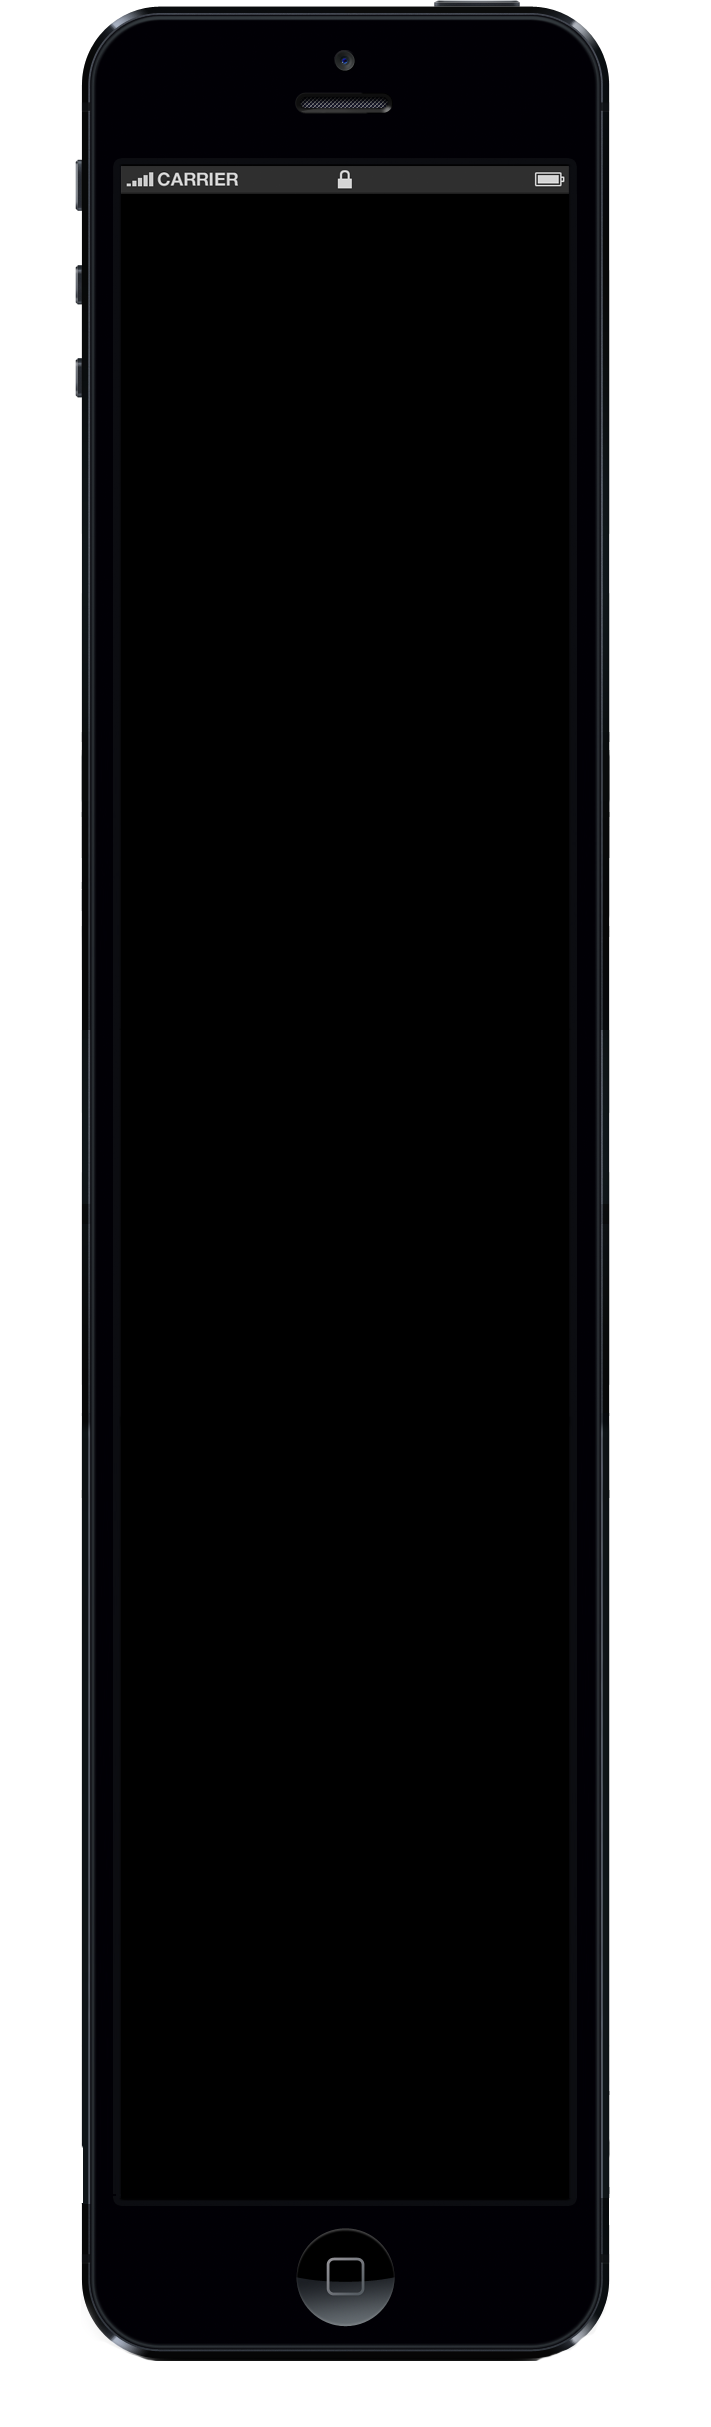
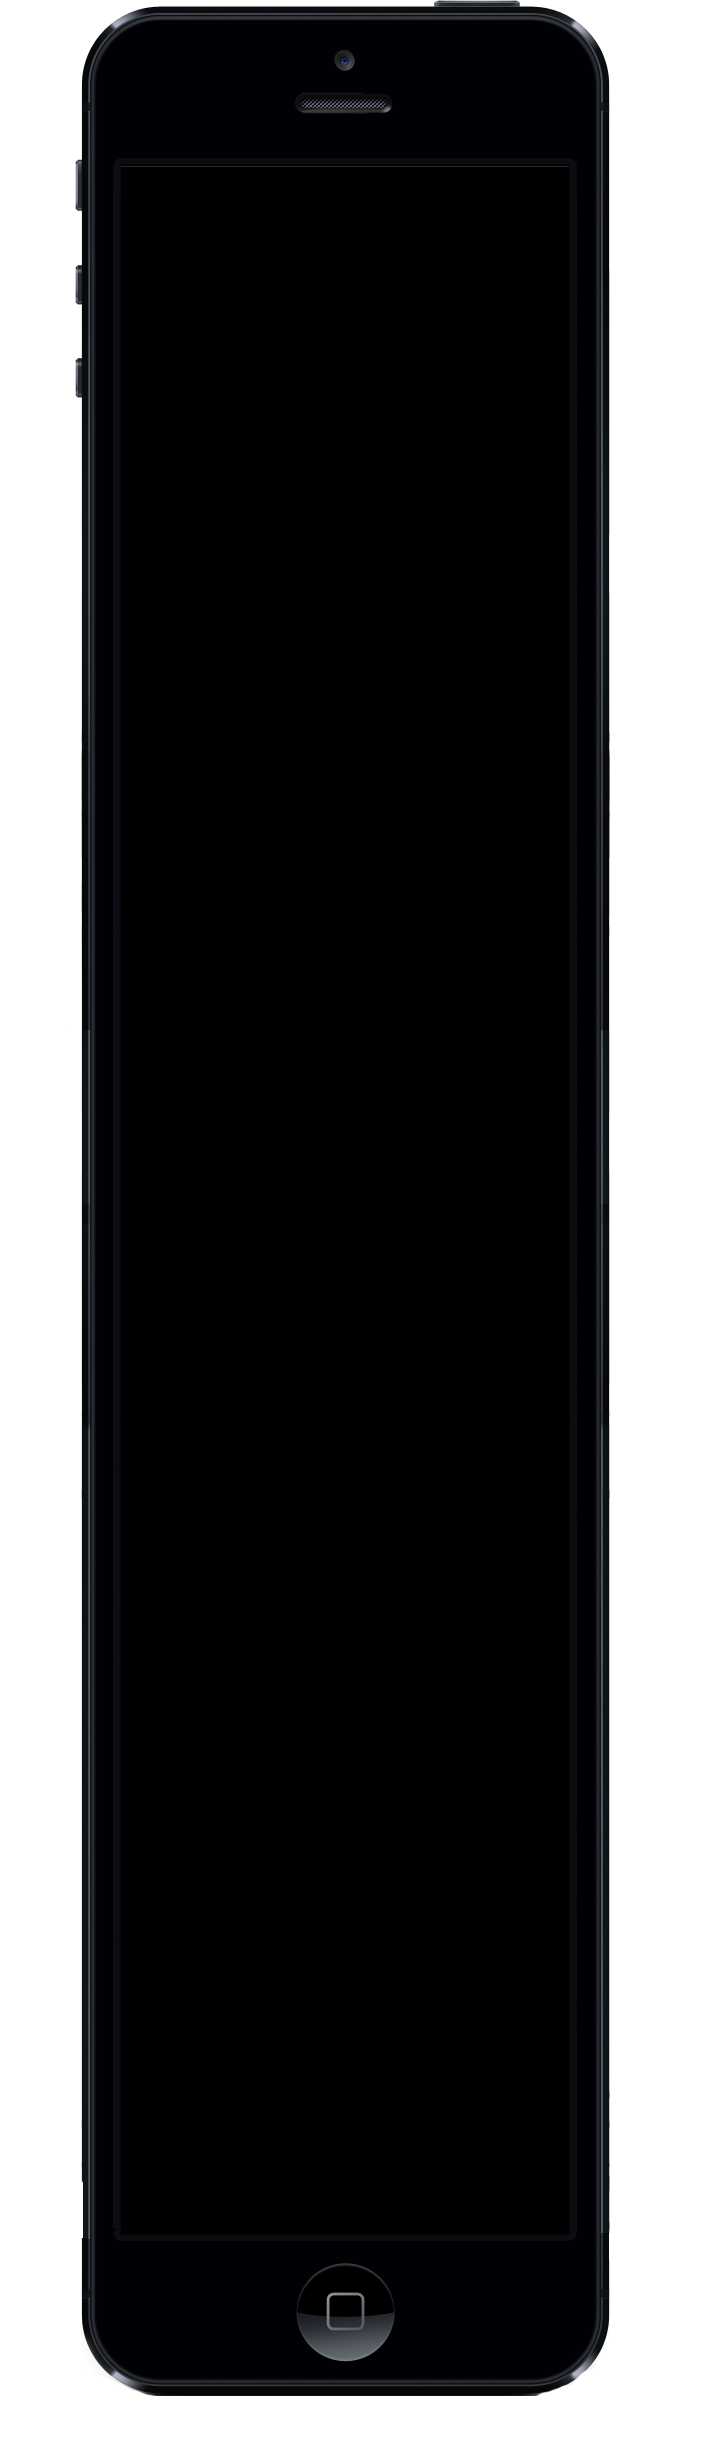
bugfixing

Changed region(s): [[0.1238, 0.9271, 0.8354, 0.9889], [0.1547, 0.0309, 0.8045, 0.0927], [0.8354, 0.9271, 0.8664, 0.958]]

diff --git a/projects/braunegger_hackel/assets/css/style.css b/projects/braunegger_hackel/assets/css/style.css
@@ -1,19 +1,19 @@
 @import url('http://fonts.googleapis.com/css?family=Open+Sans:400,700');
-*{box-sizing:border-box;}
+*{box-sizing:border-box;-webkit-box-sizing:border-box;-moz-box-sizing:border-box;}
 body{margin:0;padding:0;background:url('../img/bg.jpg') 60% 20% no-repeat,url('../img/mooning.jpg') repeat;font:normal normal 400 15px/150% 'Open Sans',Arial,sans-serif;}
 .group:after{visibility:hidden;display:block;content:"";clear:both;height:0;}
 .wrapper{width:700px;margin:0 auto;}
 .placeholder{width:400px;position:fixed;top:-250px;}.placeholder img{position:relative;left:42%;width:100%;}
-.phone{width:700px;height:2400px;background:url('../img/smartphone.png') no-repeat;border-radius:10px;margin:700px auto 0;}
+.phone{width:700px;height:2400px;background:url('../img/smartphone.png') no-repeat;border-radius:10px;margin:700px auto 70px;}
 .screen{display:none;width:448px;margin:40px auto 0;background:#fff;position:relative;top:166px;left:-2px;z-index:1;}
 .screen-overlay{background:#111;width:448px;height:1345px;margin:40px auto 0;position:relative;top:166px;left:-2px;z-index:2;}
-header,section{margin:0;box-shadow:0px 0px 5px 1px #000;}
-header{height:140px;padding:12.5% 10px 25px;background:url(../img/pattern_yellow.png) repeat;}header h1{margin:0;padding:0;font-size:30px;line-height:120%;font-weight:700;text-align:center;color:#fff;text-transform:uppercase;text-shadow:0px 2px 2px #000;}
-.phone section{min-height:600px;padding:15px 0;}.phone section h2{font-size:25px;line-height:120%;font-weight:700;text-align:center;color:#fff;text-transform:uppercase;text-shadow:0px 1px 3px #000;}.phone section h2:before{content:'»';margin-right:5px;}
+header,section{margin:0;box-shadow:0px 0px 5px 1px #000;position:relative;}
+header{height:140px;padding:12.5% 10px 25px;z-index:4;background:url(../img/pattern_yellow.png) repeat;}header h1{margin:0;padding:0;font-size:30px;line-height:120%;font-weight:700;text-align:center;color:#fff;text-transform:uppercase;text-shadow:0px 2px 2px #000;}
+.phone section{min-height:600px;padding:15px 0;z-index:1;}.phone section h2{font-size:25px;line-height:120%;font-weight:700;text-align:center;color:#fff;text-transform:uppercase;text-shadow:0px 1px 3px #000;}.phone section h2:before{content:'»';margin-right:5px;}
 .phone section h2:after{content:'«';margin-left:5px;}
 .phone section .subtext{color:#fff;font-size:10px;margin-left:50px;}
-.phone section.cyan{background:url('../img/pattern_cyan.png') repeat;}
-.phone section.orange{background:url('../img/pattern_orange.png') repeat;}
+.phone section.cyan{background:url('../img/pattern_cyan.png') repeat;z-index:3;}
+.phone section.orange{background:url('../img/pattern_orange.png') repeat;z-index:2;}
 .phone section.turquoise{background:url('../img/pattern_turquoise.png') repeat;}
 .phone section .tooltip{position:relative;display:inline;top:420px;left:170px;}.phone section .tooltip span{position:absolute;pointer-events:none;width:60px;color:#FFF;background:#000;height:30px;line-height:30px;text-align:center;opacity:0;bottom:30px;left:50%;margin-left:-76px;z-index:999;border-radius:5px;}.phone section .tooltip span:after{content:'';position:absolute;top:100%;left:50%;margin-left:-8px;width:0;height:0;border-top:8px solid #000000;border-right:8px solid transparent;border-left:8px solid transparent;}
 .phone section #barChartContainer{width:400px;height:500px;margin:0 auto;}.phone section #barChartContainer #bar-2007{-webkit-transform-origin:100px 468px;-moz-transform-origin:100px 468px;-ms-transform-origin:100px 468px;-o-transform-origin:100px 468px;transform-origin:100px 468px;}
@@ -37,6 +37,7 @@ header{height:140px;padding:12.5% 10px 25px;background:url(../img/pattern_yellow
 .phone section .lineChartText{margin-top:-650px;}
 @-webkit-keyframes grow-y{0%{-webkit-transform:scaleY(0);} 100%{-webkit-transform:scaleY(1);}}@-moz-keyframes grow-y{0%{-webkit-transform:scaleY(0);} 100%{-webkit-transform:scaleY(1);}}@-ms-keyframes grow-y{0%{-webkit-transform:scaleY(0);} 100%{-webkit-transform:scaleY(1);}}@-o-keyframes grow-y{0%{-webkit-transform:scaleY(0);} 100%{-webkit-transform:scaleY(1);}}@keyframes grow-y{0%{-webkit-transform:scaleY(0);} 100%{-webkit-transform:scaleY(1);}}.cyan.waypoint .bar{-webkit-animation:grow-y 1s;-moz-animation:grow-y 1s;-ms-animation:grow-y 1s;-o-animation:grow-y 1s;animation:grow-y 1s;display:block !important;}
 .orange.waypoint #pieChartContainer,.turquoise.waypoint #lineChartContainer{opacity:1;-webkit-transition:all 0.75s ease-in;-moz-transition:all 0.75s ease-in;-ms-transition:all 0.75s ease-in;-o-transition:all 0.75s ease-in;transition:all 0.75s ease-in;}
+.creators{text-align:center;font-weight:700;font-size:16px;margin-bottom:70px;}.creators img{margin-right:20px;vertical-align:middle;}
 .nophone{padding:70px 0;box-shadow:none;border-top:1px solid #959595;}.nophone h2{font-size:24px;font-weight:700;}
 .nophone h3{font-size:18px;font-weight:700;}
 .nophone p{font-size:14px;font-weight:300;}

diff --git a/projects/braunegger_hackel/assets/css/style.less b/projects/braunegger_hackel/assets/css/style.less
@@ -2,6 +2,8 @@
 
 * {
 	box-sizing: border-box;
+	-webkit-box-sizing: border-box;
+	-moz-box-sizing: border-box;
 }
 
 body {
@@ -37,7 +39,7 @@ body {
 	height: 2400px;
 	background: url('../img/smartphone.png') no-repeat;
 	border-radius: 10px;
-	margin: 700px auto 0;
+	margin: 700px auto 70px;
 }
 .screen {
 	display: none;
@@ -63,11 +65,13 @@ body {
 header, section {
 	margin: 0;
 	box-shadow: 0px 0px 5px 1px #000;
+	position: relative;
 }
 
 header {
 	height: 140px;
 	padding: 12.5% 10px 25px;
+	z-index: 4;
 	background: url(../img/pattern_yellow.png) repeat;
 
 	h1 {
@@ -114,12 +118,15 @@ header {
 
 	&.cyan {
 		background: url('../img/pattern_cyan.png') repeat;
+		z-index: 3;
 	}
 	&.orange {
 		background: url('../img/pattern_orange.png') repeat;
+		z-index: 2;
 	}
 	&.turquoise {
 		background: url('../img/pattern_turquoise.png') repeat;	}
+		z-index: 1;
 
 	.tooltip {
 			position: relative;
@@ -401,7 +408,17 @@ header {
 	}
 
 /// outside phone
+.creators {
+	text-align: center;
+	font-weight: 700;
+	font-size: 16px;
+	margin-bottom: 70px;
 
+	img {
+		margin-right: 20px;
+		vertical-align: middle;
+	}
+}
 .nophone {
 	padding: 70px 0;
 	box-shadow: none;

diff --git a/projects/braunegger_hackel/assets/js/scripts.js b/projects/braunegger_hackel/assets/js/scripts.js
@@ -46,6 +46,9 @@ window.onload = function () {
 		if(getAuthor.length != 0 && getText.length != 0) {
 			commentData.comments.push({author: getAuthor, message: getText}); //push new data to comment-object
 			$('.latestComments').empty();//delete all comments
+			$('.commentform .author').val('');
+			$('.commentform textarea').val(''); //delete form values
+
 			readComments(commentData);// ...and load them again
 
 
@@ -104,8 +107,8 @@ window.onload = function () {
 
 				bars.each(function(){
 					this.filter(function(add) {
-						var blur = add.offset(2,-2).in(add.sourceAlpha).gaussianBlur('2')
-						add.blend(add.source, blur)
+						var blur = add.offset(2,-2).in(add.sourceAlpha).gaussianBlur('2');
+						add.blend(add.source, blur);
 					}).size('150%','150%');
 				});
 

diff --git a/projects/braunegger_hackel/index.html b/projects/braunegger_hackel/index.html
@@ -1,7 +1,7 @@
 <!doctype html>
 <html>
 	<head>
-		<title></title>
+		<title>Smartphone Verbreitung - Michael Braunegger, Christian Hackel (MED11C)</title>
 		<meta charset="utf-8" />
 		<link rel="stylesheet" type="text/css" href="assets/css/style.css">
 	</head>
@@ -98,6 +98,7 @@
 				</section>
 				</div>
 			</div>
+			<div class="creators"><img src="assets/img/usr.png" alt="User">Ein Projekt von Michael Braunegger und Chrisitan Hackel</div>
 			<section class="nophone">
 				<article class="docs">
 					<h2>Dokumentation</h2>

diff --git a/index.html b/index.html
@@ -33,7 +33,7 @@
 					</nav>
 					<div class="menu"><img src="assets/images/arrow.png"></div>		
 					<div class="footer">
-						<p>m.braunegger<br>c.hackel</p>
+						<p>Michael Braunegger<br>Christian Hackel</p>
 					</div>
 			</div>
 			<div class="column right">

diff --git a/assets/styles/main.css b/assets/styles/main.css
@@ -589,9 +589,8 @@ h2 {
   padding: 0 40px 0 20px; }
 
 .footer {
-  width: 100px;
   font-size: 12px;
-  margin: 100px auto 0; }
+  margin-left: 20px; }
   .footer p {
     background: url(../images/personen.png) no-repeat left;
     float: left;

diff --git a/assets/styles/project/general.scss b/assets/styles/project/general.scss
@@ -98,9 +98,8 @@ h2 {
 }
 
 .footer{
-	width: 100px;
 	font-size: 12px;
-	margin: 100px auto 0;
+	margin-left: 20px;
 
 	 p {
 		background: url(../images/personen.png) no-repeat left;
